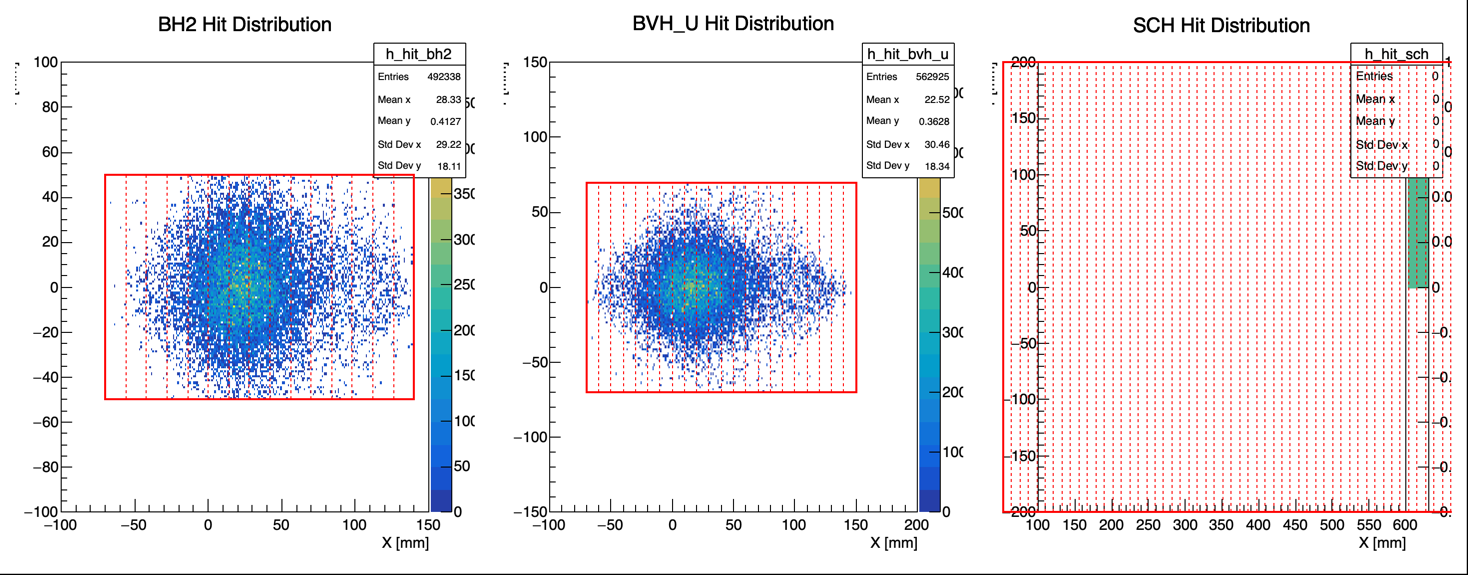
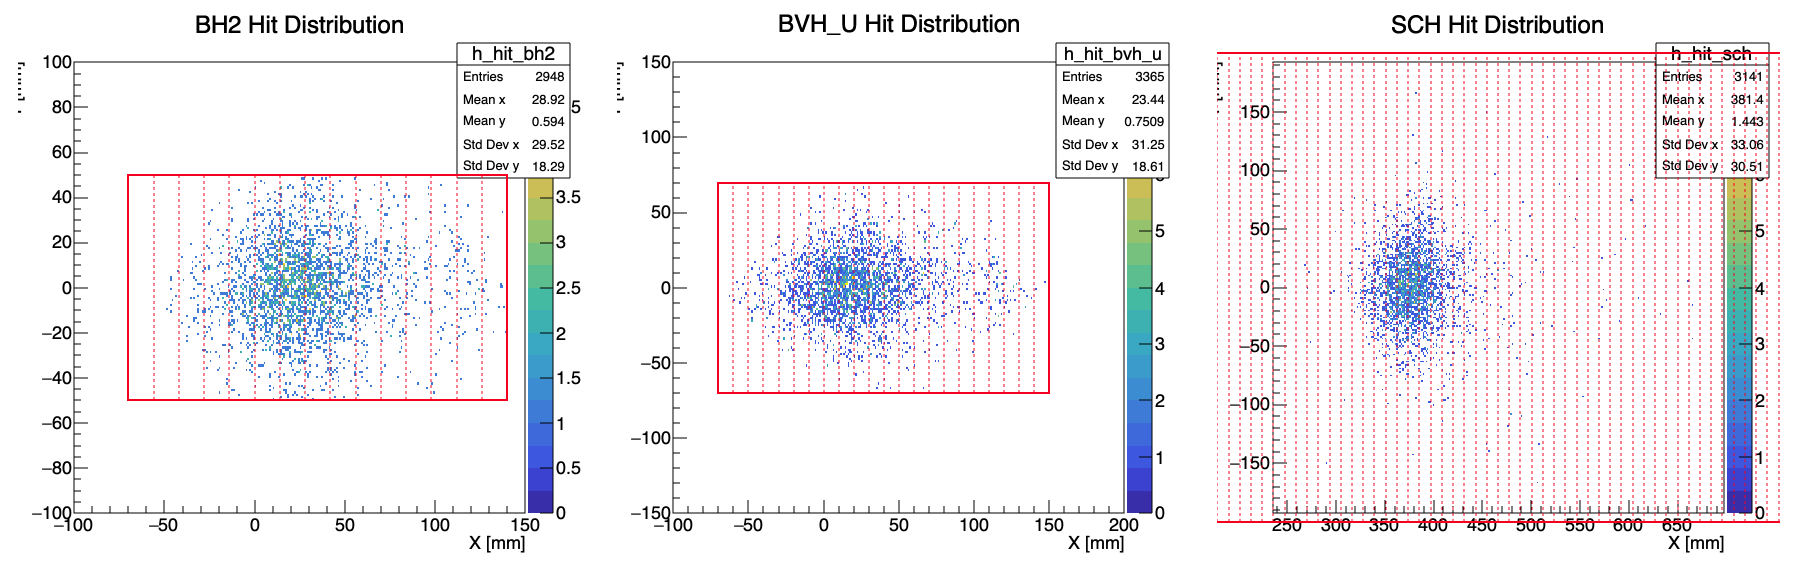
SCH Hit

diff --git a/root/view_detectors_SCH.C b/root/view_detectors_SCH.C
@@ -1,3 +1,9 @@
+// view_detectors_SCH.C
+// - BH2(15), BVH_U(22), SCH(64) 2D 히트 맵 확인용
+// - SCH 히스토그램은 (1) 데이터 스캔 기반 자동 범위, 히트가 없으면
+//   (2) DCGeomParam(E72)의 기하(센터=420, segW=11.5, segH=400, nSeg=64)에
+//   여유 마진을 얹은 안전 범위를 사용
+
 #include "TFile.h"
 #include "TTree.h"
 #include "TH2.h"
@@ -9,81 +15,137 @@
 #include "TInterpreter.h"
 #include "TSystem.h"
 #include <vector>
+#include <algorithm>
 #include <iostream>
 
-// --- 오버레이 ---
-void draw_bh2_overlay(double center_x) {
+// ---------- overlay helpers ----------
+static void draw_bh2_overlay(double center_x) {
   const double seg_w = 14.0, seg_h = 100.0; const int n_segs = 15;
   const double total_w = n_segs*seg_w, start_x = center_x - total_w/2.0;
   auto *outline = new TBox(start_x, -seg_h/2., start_x+total_w, seg_h/2.);
   outline->SetFillStyle(0); outline->SetLineColor(kRed); outline->SetLineWidth(2); outline->Draw("SAME");
-  for (int i=1;i<n_segs;++i){ double x=start_x+i*seg_w; auto *l=new TLine(x,-seg_h/2.,x,seg_h/2.); l->SetLineColor(kRed); l->SetLineStyle(2); l->Draw("SAME");}
+  for (int i=1;i<n_segs;++i){ const double x=start_x+i*seg_w; auto *l=new TLine(x,-seg_h/2.,x,seg_h/2.); l->SetLineColor(kRed); l->SetLineStyle(2); l->Draw("SAME");}
 }
 
-void draw_bvh_u_overlay(double center_x) { // n=22
+static void draw_bvh_u_overlay(double center_x) { // 22 seg
   const double seg_w = 10.0, seg_h = 140.0; const int n_segs = 22;
   const double total_w = n_segs*seg_w, start_x = center_x - total_w/2.0;
   auto *outline = new TBox(start_x, -seg_h/2., start_x+total_w, seg_h/2.);
   outline->SetFillStyle(0); outline->SetLineColor(kRed); outline->SetLineWidth(2); outline->Draw("SAME");
-  for (int i=1;i<n_segs;++i){ double x=start_x+i*seg_w; auto *l=new TLine(x,-seg_h/2.,x,seg_h/2.); l->SetLineColor(kRed); l->SetLineStyle(2); l->Draw("SAME");}
+  for (int i=1;i<n_segs;++i){ const double x=start_x+i*seg_w; auto *l=new TLine(x,-seg_h/2.,x,seg_h/2.); l->SetLineColor(kRed); l->SetLineStyle(2); l->Draw("SAME");}
 }
 
-// --- SCH 오버레이 (BVH_D 대체) ---
-void draw_sch_overlay(double center_x) { // n=64, 11.5 x 400 mm
-  const double seg_w = 11.5, seg_h = 400.0; const int n_segs = 64;
+static void draw_sch_overlay(double center_x, double seg_w=11.5, double seg_h=400.0, int n_segs=64) {
   const double total_w = n_segs*seg_w, start_x = center_x - total_w/2.0;
   auto *outline = new TBox(start_x, -seg_h/2., start_x+total_w, seg_h/2.);
   outline->SetFillStyle(0); outline->SetLineColor(kRed); outline->SetLineWidth(2); outline->Draw("SAME");
-  for (int i=1;i<n_segs;++i){ double x=start_x+i*seg_w; auto *l=new TLine(x,-seg_h/2.,x,seg_h/2.); l->SetLineColor(kRed); l->SetLineStyle(2); l->Draw("SAME");}
+  for (int i=1;i<n_segs;++i){ const double x=start_x+i*seg_w; auto *l=new TLine(x,-seg_h/2.,x,seg_h/2.); l->SetLineColor(kRed); l->SetLineStyle(2); l->Draw("SAME");}
 }
 
-void view_detectors_SCH() { // 함수 이름도 새로
-  // 딕셔너리/라이브러리 로드
+// ---------- main ----------
+void view_detectors_SCH(const char* fname="../E45_with_SCH.root",
+                        double schCenterX=420.0,   // DCGeomParam 106행
+                        double schSegW=11.5,       // DetSize SchSeg x
+                        double schSegH=400.0,      // DetSize SchSeg y(전체)
+                        int    schNSeg=64)         // NumOfSegSCH
+{
+  // TParticle 딕셔너리 준비(필수)
   gSystem->Load("libPhysics");
   gInterpreter->GenerateDictionary("vector<TParticle>","TParticle.h;vector");
 
   gStyle->SetOptStat(1111);
   gStyle->SetPalette(kBird);
 
-  // ★ 입력 ROOT 파일명은 필요에 맞게 바꿔주세요
-  TFile *f = TFile::Open("E45_SCH1.root","READ");
-  if (!f || f->IsZombie()) { Error("view_detectors_SCH","cannot open file"); return; }
+  // 파일/트리
+  TFile *f = TFile::Open(fname,"READ");
+  if (!f || f->IsZombie()) { Error("view_detectors_SCH","cannot open file: %s", fname); return; }
   auto *tree = (TTree*)f->Get("g4hyptpc");
   if (!tree) { Error("view_detectors_SCH","tree g4hyptpc not found"); return; }
 
-  // 브랜치 목록(확인용)
-  // tree->GetListOfBranches()->Print();
-
-  std::vector<TParticle> *bh2_hits=nullptr, *bvh_u_hits=nullptr, *sch_hits=nullptr;
-
   // 브랜치 연결
-  if (tree->GetBranch("BH2")) tree->SetBranchAddress("BH2",&bh2_hits);
+  std::vector<TParticle> *bh2_hits=nullptr, *bvh_u_hits=nullptr, *sch_hits=nullptr;
+  if (tree->GetBranch("BH2"))   tree->SetBranchAddress("BH2",&bh2_hits);
   else { Error("view_detectors_SCH","branch 'BH2' not found"); return; }
 
   if (tree->GetBranch("BVH_U")) tree->SetBranchAddress("BVH_U",&bvh_u_hits);
   else if (tree->GetBranch("BVH")) { tree->SetBranchAddress("BVH",&bvh_u_hits); Warning("view_detectors_SCH","using 'BVH' for BVH_U"); }
 
-  // ★ BVH_D → SCH
-  if (tree->GetBranch("SCH")) tree->SetBranchAddress("SCH",&sch_hits);
+  if (tree->GetBranch("SCH"))   tree->SetBranchAddress("SCH",&sch_hits);
   else { Warning("view_detectors_SCH","branch 'SCH' not found; skipping SCH plot"); }
 
-  // 히스토그램 (SCH 범위는 중심 420 mm, 높이 ±200 mm 기준)
-  TH2D *h_hit_bh2   = new TH2D("h_hit_bh2",   "BH2 Hit Distribution;X [mm];Y [mm]", 250, -100, 150, 200, -100, 100);
-  TH2D *h_hit_bvh_u = new TH2D("h_hit_bvh_u", "BVH_U Hit Distribution;X [mm];Y [mm]", 300, -100, 200, 200, -150, 150);
-  TH2D *h_hit_sch   = new TH2D("h_hit_sch",   "SCH Hit Distribution;X [mm];Y [mm]",  500, 100, 600, 200, -200, 200);
+  // ---------- 1차 스캔: 실제 SCH 히트 범위 ----------
+  double xmin=  1e9, xmax=-1e9, ymin=  1e9, ymax=-1e9;
+  Long64_t N = tree->GetEntries();
+  Long64_t Nscan = std::min<Long64_t>(N, 100000);
+  Long64_t nSCHfilled = 0;
 
-  const Long64_t n = tree->GetEntries();
-  for (Long64_t i=0;i<n;++i){
+  for (Long64_t i=0; i<Nscan; ++i) {
+    tree->GetEntry(i);
+    if (!sch_hits) continue;
+    for (const auto& h : *sch_hits) {
+      const double x = h.Vx();
+      const double y = h.Vy();
+      if (!(x==x) || !(y==y)) continue; // NaN 방지
+      xmin = std::min(xmin, x);
+      xmax = std::max(xmax, x);
+      ymin = std::min(ymin, y);
+      ymax = std::max(ymax, y);
+      ++nSCHfilled;
+    }
+  }
+
+  // 데이터가 없으면 기하학적 예상 범위로 넉넉히
+  if (nSCHfilled == 0) {
+    const double x_half = (schSegW*schNSeg)/2.0;     // 64*11.5/2=368
+    const double y_half = schSegH/2.0;               // 200
+    const double xMargin = 100.0;                    // 여유
+    const double yMargin = 100.0;
+    xmin = schCenterX - x_half - xMargin;            // 420-368-100 = -48
+    xmax = schCenterX + x_half + xMargin;            // 420+368+100 = 888
+    ymin = -y_half - yMargin;                         // -300
+    ymax =  y_half + yMargin;                         //  300
+    Warning("view_detectors_SCH","No SCH hits in first %lld events. Using safe geometric ranges.", Nscan);
+  }
+
+  // 여유 마진 (자동 범위일 때도 살짝 확장)
+  const double mx = 0.08*(xmax-xmin + 1.0);
+  const double my = 0.08*(ymax-ymin + 1.0);
+
+  // ---------- 히스토그램 ----------
+  TH2D *h_hit_bh2   = new TH2D("h_hit_bh2",   "BH2 Hit Distribution;X [mm];Y [mm]",
+                               250, -100, 150, 200, -100, 100);
+  TH2D *h_hit_bvh_u = new TH2D("h_hit_bvh_u", "BVH_U Hit Distribution;X [mm];Y [mm]",
+                               300, -100, 200, 200, -150, 150);
+
+  // SCH는 넉넉 + 1~2mm/bin 수준
+  const double xr = (xmax - xmin + 2*mx);
+  const double yr = (ymax - ymin + 2*my);
+  int nx = std::clamp((int)std::round(xr/1.5), 200, 2000);
+  int ny = std::clamp((int)std::round(yr/1.5), 100, 1000);
+
+  TH2D *h_hit_sch   = new TH2D("h_hit_sch",
+                               "SCH Hit Distribution;X [mm];Y [mm]",
+                               nx, xmin-mx, xmax+mx,
+                               ny, ymin-my, ymax+my);
+
+  // ---------- 본 채우기 ----------
+  for (Long64_t i=0; i<N; ++i){
     tree->GetEntry(i);
     if (bh2_hits)   for (const auto& h:*bh2_hits)   h_hit_bh2->Fill(h.Vx(),h.Vy());
     if (bvh_u_hits) for (const auto& h:*bvh_u_hits) h_hit_bvh_u->Fill(h.Vx(),h.Vy());
     if (sch_hits)   for (const auto& h:*sch_hits)   h_hit_sch->Fill(h.Vx(),h.Vy());
   }
 
+  // ---------- 그리기 ----------
   TCanvas *c = new TCanvas("c_hits","2D Hit Distributions with Overlays",1800,600);
   c->Divide(3,1);
-  c->cd(1); h_hit_bh2->Draw("COLZ");   draw_bh2_overlay(35.0);    // BH2 중심 X = 35
-  c->cd(2); h_hit_bvh_u->Draw("COLZ"); draw_bvh_u_overlay(40.0);  // BVH_U 중심 X = 40
-  c->cd(3); h_hit_sch->Draw("COLZ");   draw_sch_overlay(420.0);   // SCH 중심 X = 420
+  c->cd(1); h_hit_bh2->Draw("COLZ");   draw_bh2_overlay(35.0);   // DCGeomParam: BH2 X=35
+  c->cd(2); h_hit_bvh_u->Draw("COLZ"); draw_bvh_u_overlay(40.0); // DCGeomParam: BVH_U X=40
+  c->cd(3); h_hit_sch->Draw("COLZ");   draw_sch_overlay(schCenterX, schSegW, schSegH, schNSeg);
+
   c->SaveAs("hits_with_overlays_sch.png");
+
+  // 디버그 출력
+  printf("[SCH debug] scanned=%lld, hits=%lld, auto-range X:[%.1f, %.1f], Y:[%.1f, %.1f]\n",
+         Nscan, nSCHfilled, xmin, xmax, ymin, ymax);
 }

diff --git a/src/EventAction.cc b/src/EventAction.cc
@@ -191,6 +191,29 @@ EventAction::EndOfEventAction(const G4Event* anEvent)
   }
 }
 
+//---SCH Hits---
+{
+  auto SDManager = G4SDManager::GetSDMpointer();
+  static int id_sch = -1;
+  if (id_sch < 0) {
+    // 과거/현재 표기 모두 시도 (방어코드)
+    for (auto key : { "SCH/hit", "/SCH/hit", "SCH/SCHHits", "/SCH/SCHHits" }) {
+      int tmp = SDManager->GetCollectionID(key);
+      if (tmp >= 0) { id_sch = tmp; break; }
+    }
+  }
+  if (id_sch >= 0) {
+    auto HC = dynamic_cast<G4THitsCollection<SCHHit>*>(HCTE->GetHC(id_sch));
+    if (HC) {
+      for (G4int i=0, n=HC->entries(); i<n; ++i) {
+        gAnaMan.SetHitData((*HC)[i]);   // VHitInfo 기반이면 바로 동작
+      }
+      gAnaMan.SetNhits("SCH", HC->entries());
+    } else {
+      gAnaMan.SetNhits("SCH", 0);
+    }
+  }
+}
 
   {
     static const auto id = SDManager->GetCollectionID("VP/hit");

diff --git a/src/SCHSD.cc b/src/SCHSD.cc
@@ -16,7 +16,7 @@ SCHSD::SCHSD(const G4String& name)
   : G4VSensitiveDetector(name),
     m_hits_collection()
 {
-  collectionName.insert("hit");
+  collectionName.insert("SCHHits");
 }
 
 //_____________________________________________________________________________
